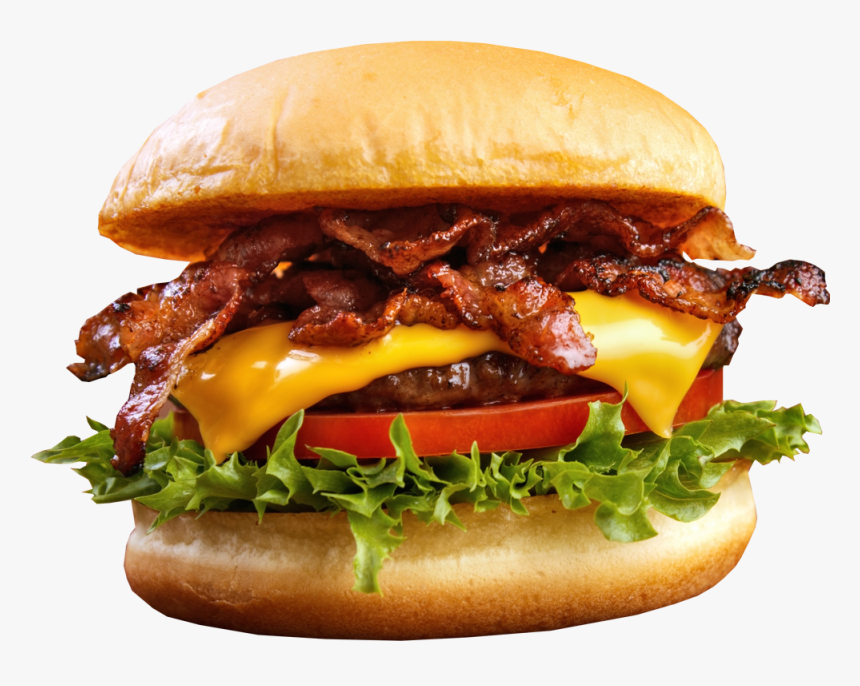
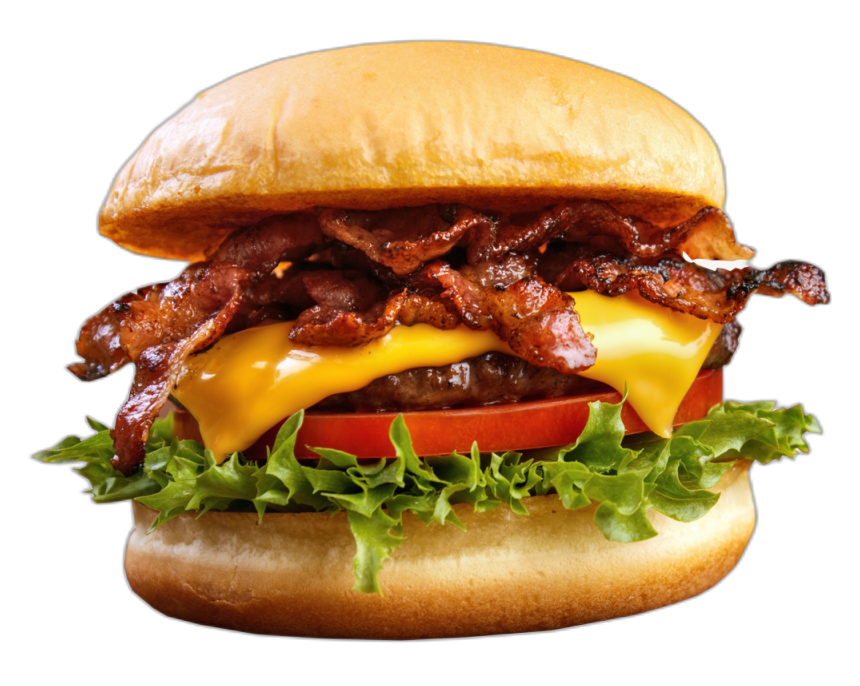
related foods mobile

diff --git a/food-info.html b/food-info.html
@@ -10,6 +10,10 @@
       rel="stylesheet"
       href="https://cdnjs.cloudflare.com/ajax/libs/font-awesome/6.3.0/css/all.min.css"
     />
+    <link
+      rel="stylesheet"
+      href="https://cdnjs.cloudflare.com/ajax/libs/tiny-slider/2.9.4/tiny-slider.css"
+    />
   </head>
   <body>
     <!-- HEADER -->
@@ -40,21 +44,21 @@
           <div class="info__images">
             <!-- MAIN IMG -->
             <div class="info__image__lg">
-              <img src="../img/b4-bg.png" alt="" />
+              <img src="../img/b4.png" alt="" />
             </div>
             <!-- THUMBNAILS -->
             <div class="info__image__variation">
               <button class="thumbnail">
-                <img src="../img/b4.png" alt="" />
-                <h3>Burger 1</h3>
+                <img src="../img/ba3.png" alt="" />
+                <h3>Supper Booger</h3>
               </button>
               <button class="thumbnail">
-                <img src="../img/b4.png" alt="" />
-                <h3>Burger 2</h3>
+                <img src="../img/ba1.png" alt="" />
+                <h3>Boogybody</h3>
               </button>
               <button class="thumbnail">
-                <img src="../img/b4.png" alt="" />
-                <h3>Burger 3</h3>
+                <img src="../img/ba2.png" alt="" />
+                <h3>Booger</h3>
               </button>
             </div>
           </div>
@@ -104,6 +108,50 @@
         </div>
       </div>
     </section>
+    <!-- RELATED FOODS -->
+    <section class="related__foods">
+      <div class="container">
+        <h3>Related Foods</h3>
+        <div class="related__foods__wrapper">
+          <div class="related__foods__card">
+            <img src="../img/b4.png" alt="" />
+            <h3>Burger 1</h3>
+          </div>
+          <div class="related__foods__card">
+            <img src="../img/b4.png" alt="" />
+            <h3>Burger 1</h3>
+          </div>
+          <div class="related__foods__card">
+            <img src="../img/b4.png" alt="" />
+            <h3>Burger 1</h3>
+          </div>
+          <div class="related__foods__card">
+            <img src="../img/b4.png" alt="" />
+            <h3>Burger 1</h3>
+          </div>
+          <div class="related__foods__card">
+            <img src="../img/b4.png" alt="" />
+            <h3>Burger 1</h3>
+          </div>
+          <div class="related__foods__card">
+            <img src="../img/b4.png" alt="" />
+            <h3>Burger 1</h3>
+          </div>
+          <div class="related__foods__card">
+            <img src="../img/b4.png" alt="" />
+            <h3>Burger 1</h3>
+          </div>
+          <div class="related__foods__card">
+            <img src="../img/b4.png" alt="" />
+            <h3>Burger 1</h3>
+          </div>
+          <div class="related__foods__card">
+            <img src="../img/b4.png" alt="" />
+            <h3>Burger 1</h3>
+          </div>
+        </div>
+      </div>
+    </section>
     <!-- FOOTER -->
     <footer class="footer">
       <div class="container">
@@ -146,5 +194,44 @@
     <p class="copyright">
       Copyright &copy; Food Factory 2022 All Right Reserved
     </p>
+    <script src="https://cdnjs.cloudflare.com/ajax/libs/tiny-slider/2.9.2/min/tiny-slider.js"></script>
+    <script>
+      const thumbnails = document.querySelectorAll(".thumbnail");
+      const bigImg = document.querySelector(".info__image__lg img");
+      const h1 = document.querySelector("h1");
+      thumbnails.forEach((item) => {
+        item.addEventListener("mouseenter", () => {
+          const currentImg = item.querySelector("img").getAttribute("src");
+          const currentText = item.querySelector("h3").textContent;
+
+          h1.textContent = currentText;
+          bigImg.setAttribute("src", currentImg);
+        });
+      });
+      var slider = tns({
+        container: ".related__foods__wrapper",
+        items: 6,
+        mouseDrag: true,
+        controlsText: [
+          '<i class="fa fa-angle-left"></i>',
+          '<i class="fa fa-angle-right"></i>',
+        ],
+        center: true,
+        responsive: {
+          0: {
+            items: 2,
+          },
+          481: {
+            items: 3,
+          },
+          700: {
+            items: 4,
+          },
+          900: {
+            items: 6,
+          },
+        },
+      });
+    </script>
   </body>
 </html>

diff --git a/scss/main.css b/scss/main.css
@@ -1014,6 +1014,13 @@ h6 span {
   grid-template-columns: repeat(2, 1fr);
   grid-gap: 10rem;
 }
+@media screen and (max-width: 480px) {
+  .info__wrapper {
+    display: grid;
+    grid-template-columns: repeat(1, 1fr);
+    grid-gap: 5rem;
+  }
+}
 .info__image__lg {
   padding: 4rem;
   border-radius: 2rem;
@@ -1021,6 +1028,7 @@ h6 span {
   margin-bottom: 8rem;
   background-color: #fff;
   transition: 0.5s ease;
+  text-align: center;
 }
 .info__image__lg:hover img {
   transform: scale(1.5);
@@ -1029,6 +1037,13 @@ h6 span {
   display: grid;
   grid-template-columns: repeat(3, 1fr);
   grid-gap: 2rem;
+}
+@media screen and (max-width: 480px) {
+  .info__image__variation {
+    display: grid;
+    grid-template-columns: repeat(2, 1fr);
+    grid-gap: 3rem;
+  }
 }
 .info__image__variation button {
   padding: 2rem;
@@ -1049,6 +1064,7 @@ h6 span {
      object-position: center center;
   transform: translateY(-5rem);
   transition: 0.5s ease;
+  text-align: center;
 }
 .info__image__variation button:hover img {
   transform: translateY(-5rem) scale(1.5);
@@ -1084,6 +1100,12 @@ h6 span {
   display: flex;
   justify-content: space-between;
   align-items: center;
+}
+@media screen and (max-width: 480px) {
+  .info__content__header .prices {
+    flex-direction: column;
+    align-items: flex-start;
+  }
 }
 .info__content__header .prices h2 {
   font-size: 5rem;
@@ -1148,4 +1170,65 @@ h6 span {
   display: block;
   text-align: center;
   width: 100%;
+}
+
+.related__foods {
+  padding: 6rem 0;
+  border-top: 1px solid #f5f5f5;
+}
+.related__foods h3 {
+  font-size: 2rem;
+  margin-bottom: 8rem;
+}
+.related__foods__card {
+  padding: 2rem;
+  background-color: #fff;
+  border-radius: 2rem;
+  box-shadow: 5px 5px 15px 2px rgba(0, 0, 0, 0.06);
+  text-align: center;
+  height: 12rem;
+  margin: 0 1rem;
+  cursor: pointer;
+}
+.related__foods__card img {
+  border-radius: 50%;
+  width: 10rem;
+  height: 10rem;
+  -o-object-fit: cover;
+     object-fit: cover;
+  -o-object-position: center center;
+     object-position: center center;
+  transform: translateY(-5rem);
+  transition: 0.5s ease;
+}
+.related__foods__card:hover img {
+  transform: translateY(-5rem) scale(1.5);
+}
+.related__foods__card h3 {
+  transform: translateY(-4rem);
+}
+.related__foods .tns-inner {
+  height: 25rem;
+  transform: translateY(5rem);
+}
+.related__foods .tns-controls {
+  display: flex;
+  gap: 1rem;
+}
+@media screen and (max-width: 480px) {
+  .related__foods .tns-controls {
+    justify-content: center;
+  }
+}
+.related__foods .tns-controls button {
+  width: 4rem;
+  height: 4rem;
+  border-radius: 50%;
+  display: flex;
+  justify-content: center;
+  align-items: center;
+  min-height: 1px;
+  background-color: #ff9a1e;
+  color: #fff;
+  font-size: 2rem;
 }/*# sourceMappingURL=main.css.map */

diff --git a/scss/pages/_food-info.scss b/scss/pages/_food-info.scss
@@ -1,6 +1,9 @@
 .info {
   &__wrapper {
     @include grid(2, 10rem);
+    @include mediaQuery($mobile) {
+      @include grid(1, 5rem);
+    }
   }
   &__image__lg {
     padding: 4rem;
@@ -9,12 +12,16 @@
     margin-bottom: 8rem;
     background-color: $clr-light;
     transition: 0.5s ease;
+    text-align: center;
     &:hover img {
       transform: scale(1.5);
     }
   }
   &__image__variation {
     @include grid(3, 2rem);
+    @include mediaQuery($mobile) {
+      @include grid(2, 3rem);
+    }
     button {
       padding: 2rem;
       background-color: $clr-light;
@@ -28,6 +35,7 @@
         @include imgFit(10rem, 10rem);
         transform: translateY(-5rem);
         transition: 0.5s ease;
+        text-align: center;
       }
       &:hover img {
         transform: translateY(-5rem) scale(1.5);
@@ -66,6 +74,10 @@
       display: flex;
       justify-content: space-between;
       align-items: center;
+      @include mediaQuery($mobile) {
+        flex-direction: column;
+        align-items: flex-start;
+      }
       h2 {
         font-size: 5rem;
         color: $clr-primary;
@@ -129,6 +141,62 @@
       display: block;
       text-align: center;
       width: 100%;
+    }
+  }
+}
+
+.related__foods {
+  padding: 6rem 0;
+  border-top: 1px solid #f5f5f5;
+  h3 {
+    font-size: 2rem;
+    margin-bottom: 8rem;
+  }
+  // &__wrapper {
+  // display: grid;
+  // @include grid(6, 2rem);
+  // }
+  &__card {
+    padding: 2rem;
+    background-color: $clr-light;
+    border-radius: 2rem;
+    box-shadow: $shadow;
+    text-align: center;
+    height: 12rem;
+    margin: 0 1rem;
+    cursor: pointer;
+    img {
+      border-radius: 50%;
+      @include imgFit(10rem, 10rem);
+      transform: translateY(-5rem);
+      transition: 0.5s ease;
+    }
+    &:hover img {
+      transform: translateY(-5rem) scale(1.5);
+    }
+    h3 {
+      transform: translateY(-4rem);
+    }
+  }
+  .tns-inner {
+    height: 25rem;
+    transform: translateY(5rem);
+  }
+  .tns-controls {
+    display: flex;
+    // justify-content: center;
+    @include mediaQuery($mobile) {
+      justify-content: center;
+    }
+    gap: 1rem;
+    button {
+      width: 4rem;
+      height: 4rem;
+      border-radius: 50%;
+      @include centerAll;
+      background-color: $clr-primary;
+      color: $clr-light;
+      font-size: 2rem;
     }
   }
 }
